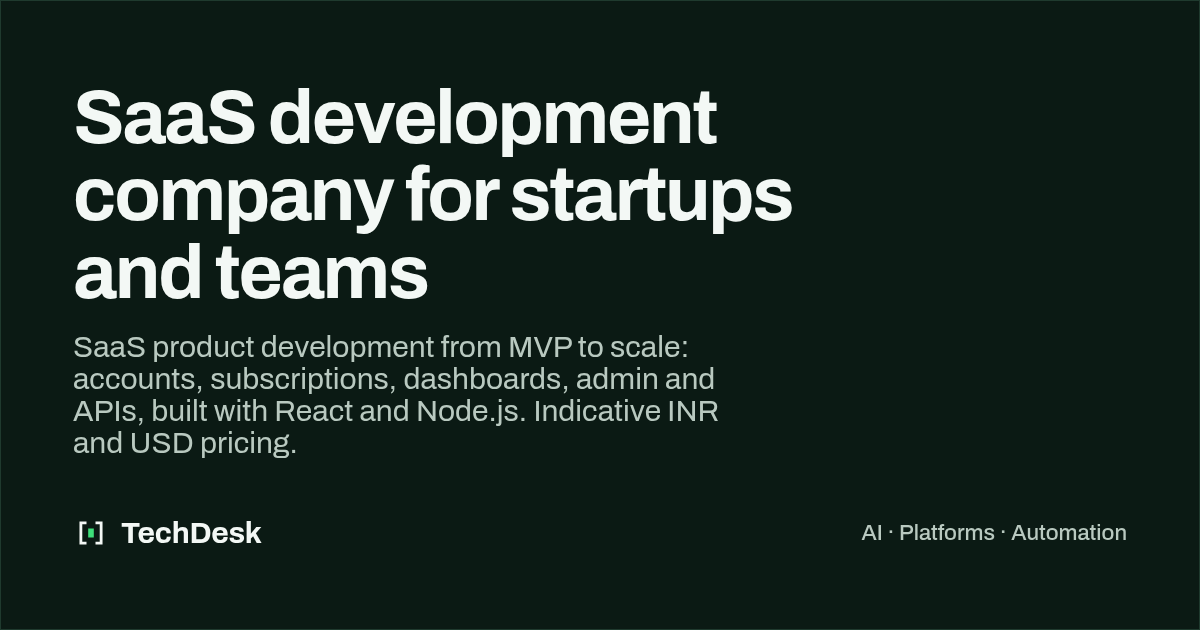
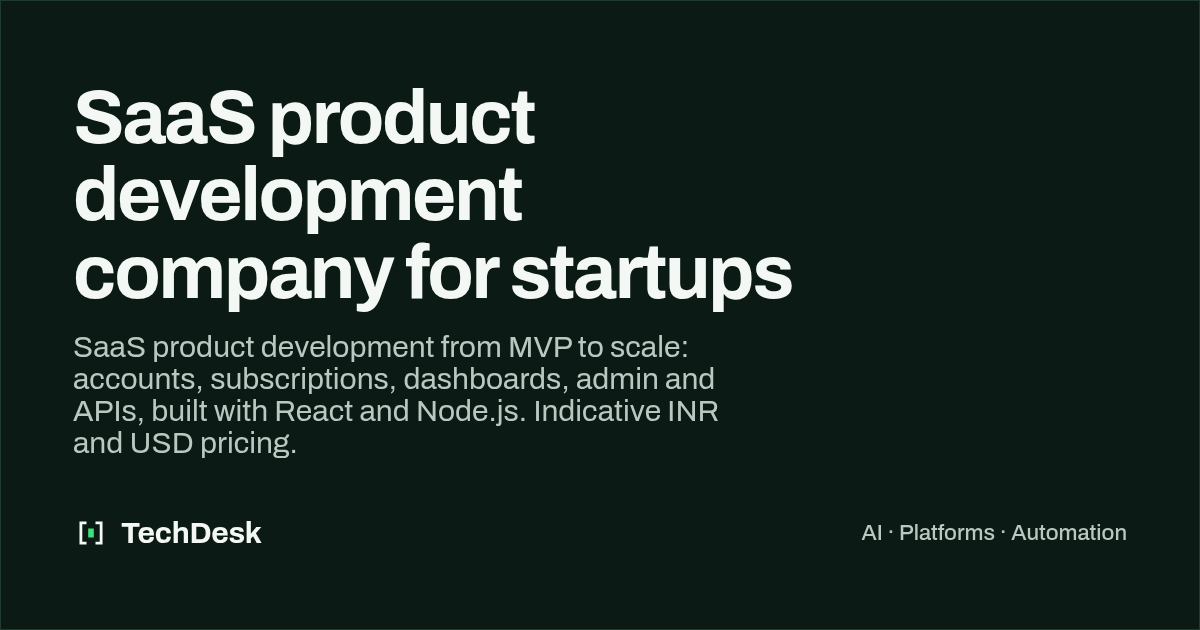
Add SEO landing pages for AI agents, custom software and gaming
Owner wants to rank for AI agent developers, SaaS products, custom
software/servers and gaming platforms. Adds three solution pages, leads
the SaaS page with "SaaS product development", and retitles the AI
automation service so it does not compete with the new AI agent page.

Claude-Session: https://claude.ai/code/session_01LQUokjMyENnxd84ir2cuDZ

Changed region(s): [[0.0617, 0.1206, 0.6783, 0.5127]]

diff --git a/src/data/solutions.ts b/src/data/solutions.ts
@@ -23,6 +23,65 @@ export type Solution = {
 
 export const solutions: Solution[] = [
   {
+    slug: "ai-agent-development",
+    keyword: "AI agent development company",
+    secondary: ["hire AI agent developer", "custom AI agent development", "AI agent developers in India"],
+    title: "AI agent development company and developers",
+    description:
+      "Hire AI agent developers who ship: agents that research, decide and act inside your tools, with model failover, guardrails and a human in the loop.",
+    h1: "AI agent development by developers who run agents in production",
+    intro: [
+      "An AI agent is software that reads a situation, decides what to do and takes the action itself: answering a customer, updating a CRM, researching a market or drafting a document. The hard part is not the demo, it is keeping the agent correct, safe and online every day.",
+      "Our AI agent development work runs in production: the AI layer of our algo trading platform produces live research every five minutes across several model providers, with timeouts, failover and cooldowns so one outage never stops the feature.",
+    ],
+    build: [
+      "Customer-facing agents for WhatsApp, web chat and email",
+      "Internal agents that act inside your CRM, ERP and tools",
+      "Research and analysis agents on live data",
+      "RAG search over your documents and knowledge base",
+      "Multi-step workflows with approvals and a human in the loop",
+      "Multi-provider model layers with failover and cost control",
+    ],
+    steps: [
+      { name: "Pick the job", detail: "One task the agent owns end to end, and how we will measure it." },
+      { name: "Connect the tools", detail: "The data it reads and the actions it is allowed to take, nothing more." },
+      { name: "Add guardrails", detail: "Limits, approvals, logging and a fallback when a model is down." },
+      { name: "Launch and tune", detail: "Review real conversations and actions every week and improve them." },
+    ],
+    why: [
+      {
+        title: "Agents in production, not demos",
+        detail: "Our trading platform's AI research and swing-trade agents run on live market data every day.",
+      },
+      {
+        title: "Built to stay up",
+        detail: "Provider chains with per-attempt timeouts and cooldowns, so one model outage degrades, never breaks.",
+      },
+      {
+        title: "Safe by default",
+        detail: "Agents get only the permissions their job needs, and risky actions wait for a person to approve.",
+      },
+    ],
+    proof: ["algo-trading-platform", "e-bidding-automation", "agency-website"],
+    services: ["ai-automation", "software-engineering"],
+    estimateType: "ai",
+    guide: "ai-agent-development-cost",
+    faq: [
+      {
+        q: "What is the difference between a chatbot and an AI agent?",
+        a: "A chatbot answers questions. An AI agent also takes actions: it can look up an order, update a record, book a slot or start a workflow, within limits you set.",
+      },
+      {
+        q: "Which AI models do you use?",
+        a: "We choose per task, for example Claude, Groq-hosted open models or other OpenAI-compatible APIs, and usually put two or more providers behind a failover chain.",
+      },
+      {
+        q: "How much does AI agent development cost?",
+        a: "A focused agent starts at an indicative ₹75k in India or $2k worldwide; the estimate tool and our cost guide give a range for your scope.",
+      },
+    ],
+  },
+  {
     slug: "whatsapp-ai-agent-development",
     keyword: "WhatsApp AI agent development",
     secondary: ["WhatsApp chatbot development", "WhatsApp AI agent for business", "WhatsApp chatbot development cost"],
@@ -287,6 +346,65 @@ export const solutions: Solution[] = [
     ],
   },
   {
+    slug: "custom-software-development",
+    keyword: "custom software development company",
+    secondary: ["backend development company", "server and API development", "Node.js backend development"],
+    title: "Custom software and backend development company",
+    description:
+      "Custom software, servers and APIs built to stay correct under load: data models, queues, integrations and cloud hosting. Node.js, PostgreSQL and AWS.",
+    h1: "Custom software development, from the server up",
+    intro: [
+      "Most software problems are backend problems: data that drifts, jobs that run twice, integrations that fail quietly and servers that slow down as users grow. We build custom software with the server, database and APIs designed first, so the product on top stays fast and correct.",
+      "Our custom software development work includes the backend of a multi-brand gaming platform with an immutable double-entry ledger, the execution engine of an algo trading platform, and ERP and HRMS systems.",
+    ],
+    build: [
+      "Custom business software and internal tools",
+      "Backend servers and REST APIs with OpenAPI docs",
+      "Database design on PostgreSQL, MongoDB and Redis",
+      "Background jobs and queues with retries",
+      "Third-party integrations, webhooks and payment callbacks",
+      "Cloud hosting on AWS with monitoring and backups",
+    ],
+    steps: [
+      { name: "Model the data", detail: "Every entity, state and rule, before any screen is designed." },
+      { name: "Design the APIs", detail: "One schema that validates input, types the code and documents the API." },
+      { name: "Build and test", detail: "Tests against real databases for everything that matters." },
+      { name: "Run it", detail: "Deployment, logging, alerts and backups, so you know it is healthy." },
+    ],
+    why: [
+      {
+        title: "Correct under load",
+        detail: "Idempotency and uniqueness live in the database, so a retried request never creates a duplicate.",
+      },
+      {
+        title: "Built to grow",
+        detail:
+          "Stateless servers, queues for heavy work and indexed queries, so more users means more servers, not a rewrite.",
+      },
+      {
+        title: "No black boxes",
+        detail: "Structured logs, documented APIs and a repository you own from day one.",
+      },
+    ],
+    proof: ["gaming-platform", "algo-trading-platform", "enterprise-software"],
+    services: ["software-engineering", "web-product-engineering"],
+    estimateType: "web-app",
+    faq: [
+      {
+        q: "Can you take over or fix an existing backend?",
+        a: "Yes. We start with a short review of the code, database and hosting, then fix the riskiest problems first before adding features.",
+      },
+      {
+        q: "Which backend stack do you use?",
+        a: "Usually Node.js with Fastify or Express, PostgreSQL or MongoDB, Redis for caching and queues, and AWS for hosting, chosen per project.",
+      },
+      {
+        q: "Do you build APIs for mobile apps and partners?",
+        a: "Yes. We design versioned REST APIs with authentication, rate limits and OpenAPI documentation that your app and partner teams can build against.",
+      },
+    ],
+  },
+  {
     slug: "chrome-extension-development",
     keyword: "Chrome extension development company",
     secondary: ["browser extension development", "Chrome extension development services", "custom Chrome extension"],
@@ -354,10 +472,10 @@ export const solutions: Solution[] = [
     slug: "saas-development-company",
     keyword: "SaaS development company",
     secondary: ["SaaS development services", "SaaS product development", "SaaS development company in India"],
-    title: "SaaS development company for startups and teams",
+    title: "SaaS product development company for startups",
     description:
       "SaaS product development from MVP to scale: accounts, subscriptions, dashboards, admin and APIs, built with React and Node.js. Indicative INR and USD pricing.",
-    h1: "SaaS development from first version to the product customers pay for",
+    h1: "SaaS product development, from first version to the product customers pay for",
     intro: [
       "A SaaS product has more moving parts than it looks: accounts and roles, subscriptions and billing, admin tools, reporting and an API, all while staying fast and secure. We design and build all of it, and we keep the first version small enough to launch.",
       "Our own products include a subscription algo trading platform with Starter, Pro and Ultra Pro plans, and a real-time task management SaaS for teams.",
@@ -409,6 +527,67 @@ export const solutions: Solution[] = [
       {
         q: "Will I own the code?",
         a: "Yes. The code lives in a repository you own or can access from day one.",
+      },
+    ],
+  },
+  {
+    slug: "gaming-platform-development",
+    keyword: "gaming platform development company",
+    secondary: ["iGaming software development", "sportsbook software development", "casino platform development"],
+    title: "Gaming platform development company",
+    description:
+      "Gaming platform development with wallets, a double-entry ledger, payments, bonuses and an operator back office, multi-brand from day one. By TechDesk.",
+    h1: "Gaming platform development where every balance has to add up",
+    intro: [
+      "A gaming platform is a money system first. A single bet touches the wallet, the odds, the bonus and the risk rules at the same moment, and players notice the first time a balance is wrong.",
+      "We are building the foundation of a multi-brand gaming platform: sportsbook, casino aggregation, instant games, wallet, payments, bonuses, VIP, affiliates and an operator back office, as one configurable codebase.",
+    ],
+    build: [
+      "Player wallets on an immutable double-entry ledger",
+      "Sportsbook, casino aggregation and instant games",
+      "Payments and provider callbacks that are idempotent and signature-verified",
+      "Bonuses, VIP tiers and affiliate tracking",
+      "Operator back office with roles and audit logs",
+      "Multi-brand, multi-currency configuration from one codebase",
+    ],
+    steps: [
+      { name: "Model the money", detail: "Wallets, currencies and every state a bet or payment can be in." },
+      { name: "Build the core", detail: "Ledger, accounts and one game vertical working end to end." },
+      { name: "Add verticals", detail: "More games, bonuses and payment methods on the same core." },
+      {
+        name: "Launch per brand",
+        detail: "Brand, currency and market rules set by configuration, not by forking code.",
+      },
+    ],
+    why: [
+      {
+        title: "Money as integers",
+        detail: "Amounts are integer minor units with an explicit currency, and floating-point money is a lint error.",
+      },
+      {
+        title: "Exactly once",
+        detail: "Every financial operation is idempotent, enforced by a unique database index, not by hope.",
+      },
+      {
+        title: "Compliance on the server",
+        detail: "Market and player rules are enforced server-side and deny by default.",
+      },
+    ],
+    proof: ["gaming-platform", "algo-trading-platform"],
+    services: ["software-engineering", "web-product-engineering"],
+    estimateType: "web-app",
+    faq: [
+      {
+        q: "Do you provide gaming licences?",
+        a: "No. We build the software. Licensing, regulatory approval and the choice of markets stay with you as the operator, and we build the platform to follow those rules.",
+      },
+      {
+        q: "Can one platform run several brands?",
+        a: "Yes. Brand, currency and market settings are configuration, so new brands launch without a separate codebase.",
+      },
+      {
+        q: "Can you integrate game and payment providers?",
+        a: "Yes. Provider integrations sit behind adapters, with signed, replay-protected and idempotent callbacks.",
       },
     ],
   },

diff --git a/src/data/company.ts b/src/data/company.ts
@@ -10,7 +10,7 @@ export const site = {
   name: "TechDesk",
   tagline: "We engineer digital systems for what's next.",
   description:
-    "TechDesk is an AI and software development company in Indore, India. We build AI agents, SaaS platforms and automation for clients worldwide.",
+    "TechDesk is an AI and software development company in Indore, India. We build AI agents, SaaS products, custom software and gaming platforms worldwide.",
 } as const;
 
 // Engagement models (delegated by the owner). Prices live in pricing.ts; these describe how we work together.

diff --git a/src/data/services.ts b/src/data/services.ts
@@ -68,7 +68,7 @@ export const services: Service[] = [
     stack: ["Claude", "Groq", "OpenAI-compatible APIs", "Vector search", "Node.js", "Python"],
     visual: "agent",
     seo: {
-      title: "AI agent and automation development",
+      title: "AI automation, chatbot and RAG services",
       description:
         "AI agents, chatbots, RAG search and workflow automation that act inside your tools, with provider failover and a human in the loop. Built by TechDesk, Indore.",
     },

diff --git a/src/lib/seo.ts b/src/lib/seo.ts
@@ -117,7 +117,9 @@ const organizationLd: Ld = {
   knowsAbout: [
     "AI agent development",
     "WhatsApp AI agents",
-    "SaaS development",
+    "SaaS product development",
+    "Backend and API development",
+    "Gaming platform development",
     "Custom software development",
     "Algorithmic trading software",
     "Marketplace development",

diff --git a/docs/SEO_KEYWORDS.md b/docs/SEO_KEYWORDS.md
@@ -22,17 +22,20 @@ Research date: 2026-09-25. Target market: **worldwide** (owner), with India and 
 | Page | Primary keyword | Secondary |
 |---|---|---|
 | `/` | AI agent and software development company | AI and software development company in India; worldwide |
-| `/services/ai-automation` | AI agent and automation development | AI chatbot development, RAG, workflow automation |
+| `/services/ai-automation` | AI automation, chatbot and RAG services (cedes "AI agent development" to the solution page) | AI chatbot development, RAG, workflow automation |
 | `/services/web-product-engineering` | web app and SaaS development | React, Next.js, dashboards, e-commerce |
 | `/services/software-engineering` | backend, API and integration engineering | Node.js, PostgreSQL, integrations |
 | `/services/digital-marketing` | SEO and digital marketing for leads | technical SEO |
 | `/services/digital-transformation` | digital transformation and MVP development | legacy modernisation, internal tools |
+| `/solutions/ai-agent-development` | AI agent development company | hire AI agent developer, custom AI agent development |
 | `/solutions/whatsapp-ai-agent-development` | WhatsApp AI agent development | WhatsApp chatbot development (cost), for business |
 | `/solutions/algo-trading-software-development` | algo trading software development | algo trading platform, trading bot, crypto algo trading |
 | `/solutions/marketplace-development` | marketplace development company | B2B / online marketplace development |
 | `/solutions/erp-hrms-software-development` | ERP software development company | HRMS software development, custom ERP, enterprise management software |
+| `/solutions/custom-software-development` | custom software development company | backend development company, server and API development |
+| `/solutions/gaming-platform-development` | gaming platform development company | iGaming, sportsbook and casino platform development |
 | `/solutions/chrome-extension-development` | Chrome extension development company | browser extension development |
-| `/solutions/saas-development-company` | SaaS development company | SaaS product development, SaaS company in India |
+| `/solutions/saas-development-company` | SaaS development company (title leads with "SaaS product development") | SaaS product development, SaaS company in India |
 | `/solutions/hire-developers-india` | hire dedicated developers in India | outsource to India, hire AI developers, offshore |
 | `/solutions/fintech-software-development` | fintech software development company | trading platform, financial software |
 | `/solutions/software-development-company-indore` | software development company in Indore | web development company in Indore, AI development company in Indore |

diff --git a/docs/CHANGELOG.md b/docs/CHANGELOG.md
@@ -1,6 +1,12 @@
 # Changelog
 
 ## [Unreleased]
+### Added
+- Three SEO landing pages for the queries the owner wants to rank for: `/solutions/ai-agent-development` (AI agent developers), `/solutions/custom-software-development` (custom software, servers and APIs) and `/solutions/gaming-platform-development` (gaming platforms). Each targets one keyword and cites only real projects; footer, sitemap, llms.txt and share images pick them up automatically.
+### Changed
+- SaaS page title and h1 now lead with "SaaS product development". The AI automation service page is retitled so it no longer competes with the new AI agent page. Site description and Organization `knowsAbout` mention SaaS products, custom software, backend and gaming.
+**Files:** src/data/{solutions,services,company}.ts, src/lib/seo.ts, public/og/*, docs/SEO_KEYWORDS.md · **API/Schema:** none · **Migration:** none · **Breaking:** no · **Tests:** npm test, verify, e2e
+
 ### Changed
 - Replaced the Business Exchange Platform everywhere on the site with an Enterprise Software Suite (ERP, HRMS and management systems), so our enterprise work is presented as a flagship case study (owner request). Homepage hero card, industries tab ("Enterprise software" replaces "Marketplaces"), strengths, work page meta, solution pages and the /system specimen updated. Marketplace and fintech pages no longer claim business exchange or Digio KYC work.
 ### Added
